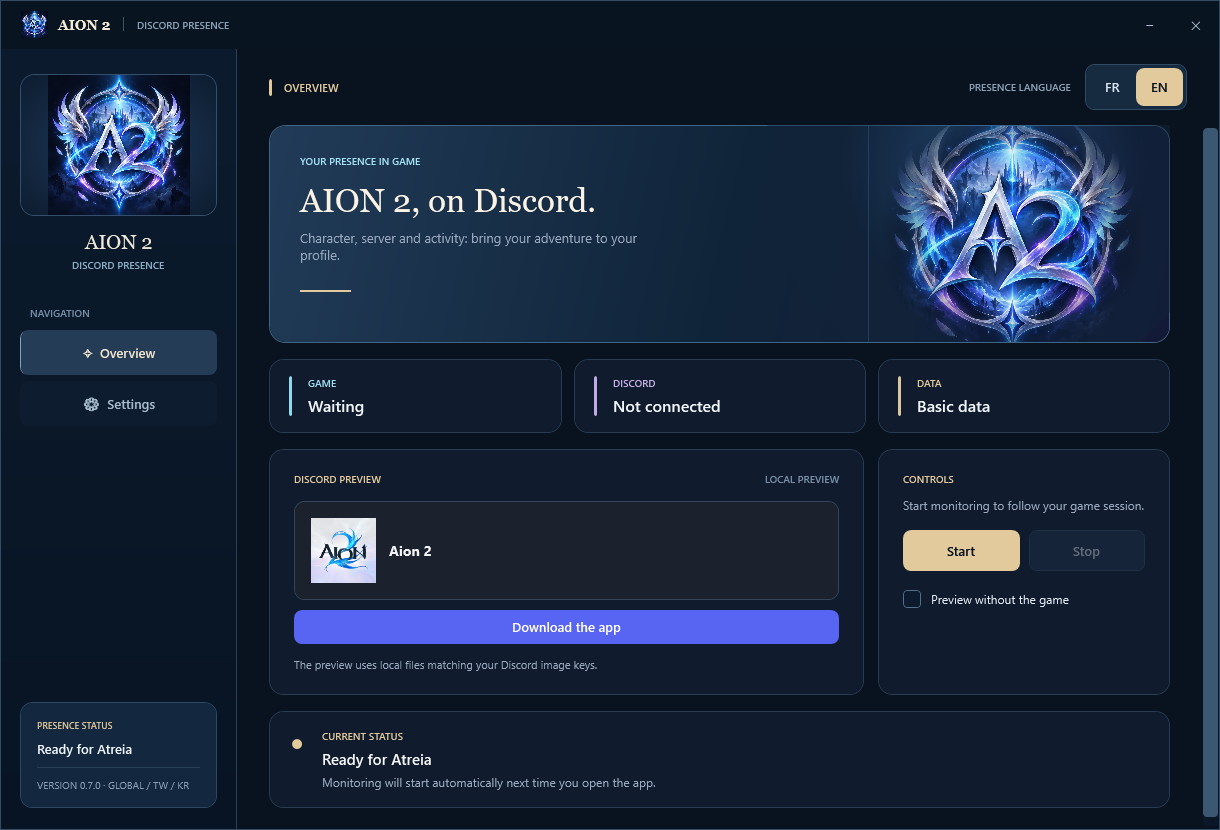
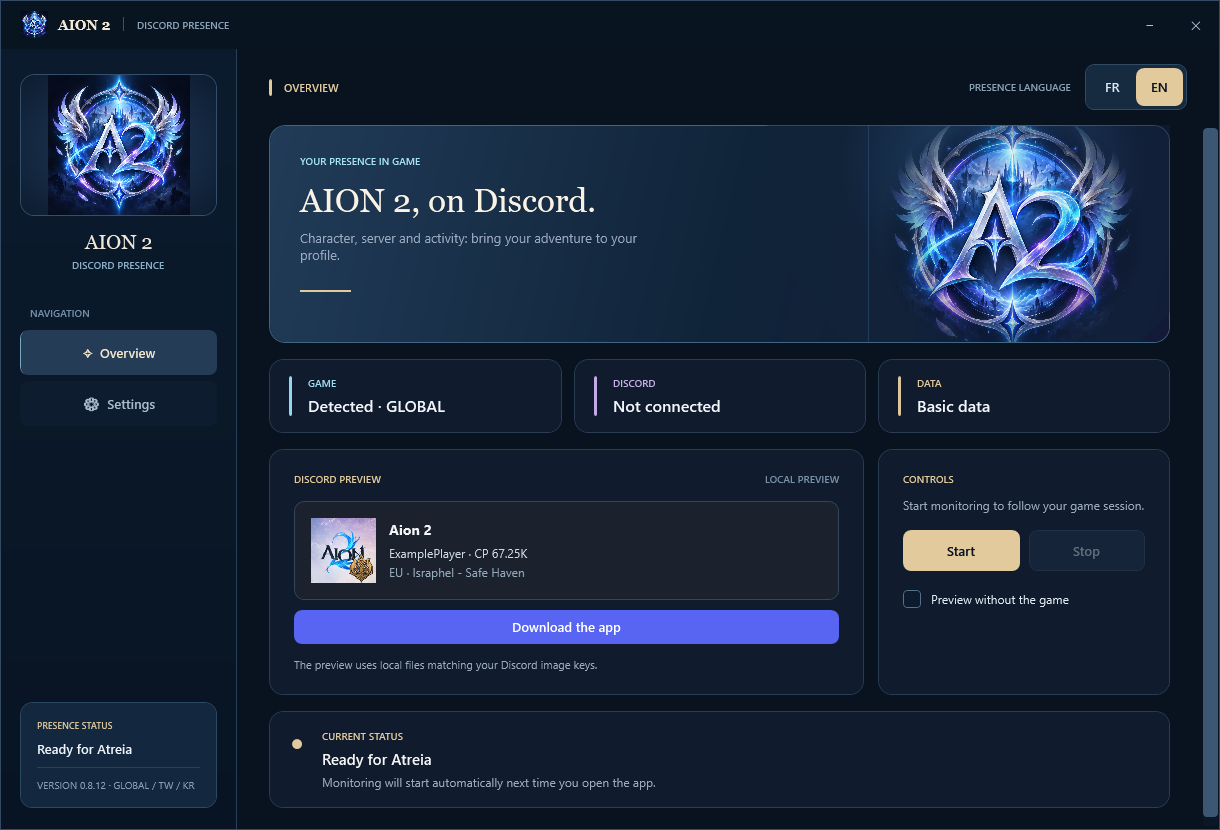
Update official game artwork and version 0.8.12 documentation

Changed region(s): [[0.2492, 0.6024, 0.4361, 0.7229], [0.2492, 0.4819, 0.3738, 0.512], [0.0623, 0.9337, 0.1557, 0.9639]]

diff --git a/README.md b/README.md
@@ -20,7 +20,7 @@ A Discord developer account is not required. The shared Application ID and game/
 
 ## Download and first setup
 
-1. Download [AionPresence-Setup-0.8.11.exe](https://github.com/KaiiZzeR971/AION-2-Discord-Rich-Presence/releases/download/v0.8.11/AionPresence-Setup-0.8.11.exe) from this repository's Releases.
+1. Download [AionPresence-Setup-0.8.12.exe](https://github.com/KaiiZzeR971/AION-2-Discord-Rich-Presence/releases/download/v0.8.12/AionPresence-Setup-0.8.12.exe) from this repository's Releases.
 2. Run the installer. Installation is required. The app is installed for your Windows account and added to the Start menu.
 3. For Global automatic detection, complete the [Npcap setup](#npcap-setup-for-global) below before starting the game.
 4. Open **AION 2 Discord Presence** from the Start menu once. Select **EN** or **FR**, leave the client selection on **Auto**, and choose which fields to display in Settings.
@@ -29,7 +29,7 @@ A Discord developer account is not required. The shared Application ID and game/
 
 After setup, the app launches quietly near the Windows clock when the game starts. You can open its window from the notification icon. Preferences are saved automatically. Unavailable data and disabled fields are omitted from the presence.
 
-The installer is currently **unsigned**, so Windows may display a warning. A [SHA-256 checksum](https://github.com/KaiiZzeR971/AION-2-Discord-Rich-Presence/releases/download/v0.8.11/AionPresence-Setup-0.8.11.sha256) is provided alongside the installer.
+The installer is currently **unsigned**, so Windows may display a warning. A [SHA-256 checksum](https://github.com/KaiiZzeR971/AION-2-Discord-Rich-Presence/releases/download/v0.8.12/AionPresence-Setup-0.8.12.sha256) is provided alongside the installer.
 
 ## Npcap setup for Global
 
@@ -85,6 +85,8 @@ Character identity, class, level, item level, CP, server and the last detected m
 - The catalog contains client data, but every destination has not been tested in a live session. The complete Global feature set is not yet verified across all clients, servers, and regions.
 
 ## Features and settings
+
+The default game image uses the current official AION 2 icon from the Discord game catalog. The local preview uses the same artwork. Custom image keys remain supported.
 
 Default visibility: character, CP, class icon, region, server, zone, crafting, gathering, timer, game artwork and GitHub button enabled. Character level, item level and party disabled. Each option can be changed in Settings; updates preserve saved preferences.
 
@@ -157,7 +159,7 @@ Aucun compte développeur Discord n'est nécessaire. L'Application ID partagé e
 
 ### Télécharger et configurer
 
-1. Téléchargez [AionPresence-Setup-0.8.11.exe](https://github.com/KaiiZzeR971/AION-2-Discord-Rich-Presence/releases/download/v0.8.11/AionPresence-Setup-0.8.11.exe) depuis les Releases de ce dépôt.
+1. Téléchargez [AionPresence-Setup-0.8.12.exe](https://github.com/KaiiZzeR971/AION-2-Discord-Rich-Presence/releases/download/v0.8.12/AionPresence-Setup-0.8.12.exe) depuis les Releases de ce dépôt.
 2. Lancez l'installateur. L'installation est obligatoire. L'application est installée pour votre compte Windows et ajoutée au menu Démarrer.
 3. Pour la détection automatique sur Global, effectuez la [configuration Npcap](#configuration-de-npcap-pour-global) ci-dessous avant de lancer le jeu.
 4. Ouvrez une première fois **AION 2 Discord Presence** depuis le menu Démarrer. Choisissez **FR** ou **EN**, laissez la version du client sur **Auto** et choisissez les champs à afficher dans les paramètres.
@@ -166,7 +168,7 @@ Aucun compte développeur Discord n'est nécessaire. L'Application ID partagé e
 
 Après cette configuration, l'application démarre discrètement près de l'horloge Windows avec le jeu. Son icône de notification permet de rouvrir la fenêtre. Les préférences sont sauvegardées automatiquement. Les champs indisponibles ou désactivés sont omis de la présence.
 
-L'installateur est actuellement **non signé** ; Windows peut afficher un avertissement. Une [somme SHA-256](https://github.com/KaiiZzeR971/AION-2-Discord-Rich-Presence/releases/download/v0.8.11/AionPresence-Setup-0.8.11.sha256) accompagne l'installateur.
+L'installateur est actuellement **non signé** ; Windows peut afficher un avertissement. Une [somme SHA-256](https://github.com/KaiiZzeR971/AION-2-Discord-Rich-Presence/releases/download/v0.8.12/AionPresence-Setup-0.8.12.sha256) accompagne l'installateur.
 
 ### Configuration de Npcap pour Global
 
@@ -222,6 +224,8 @@ L'identité du personnage, la classe, le niveau, l'iLvl, le CP, le serveur et la
 - Le catalogue provient des données du client, mais chaque destination n'a pas été testée en jeu. L'ensemble des fonctions Global n'est pas encore vérifié sur tous les clients, serveurs et régions.
 
 ### Fonctions et paramètres
+
+L’image du jeu par défaut utilise l’icône officielle actuelle d’AION 2 du catalogue Discord. L’aperçu local reprend la même illustration. Les clés d’image personnalisées restent prises en charge.
 
 Affichage initial : personnage, CP, icône de classe, région, serveur, zone, fabrication, récolte, chrono, image du jeu et bouton GitHub activés. Niveau du personnage, iLvl et groupe désactivés. Chaque option peut être modifiée dans les paramètres ; les mises à jour conservent les préférences enregistrées.
 
